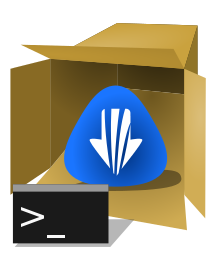
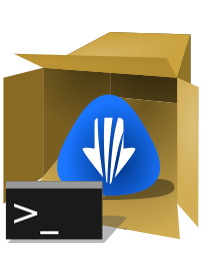
Updated header style and also revised some images.

diff --git a/data/css/gtk-style.css b/data/css/gtk-style.css
@@ -1,14 +1,24 @@
-
 #logo {
-    background-color: #f0f0f0;
-    color: #6988bb;
+    background-color: transparent;
+    background-image: url("data/images/header.png");                                 
+    background-repeat: no-repeat;
+    background-position: top;
+    background-size: 100% 100%;
+    color: #fcfcfc;
     font: 14px;
+    font-family: 'DejaVu Sans', Sans, sans-serif;
 }
 
 #title {
-    background-color: #f0f0f0;
-    color: #6988bb;
+    background-color: transparent;
+    background-image: url("data/images/header.png");                                 
+    background-repeat: no-repeat;
+    background-position: top;
+    background-size: 100% 100%;
+    color: #5082d4;
     font: 14px;
+    font-family: 'DejaVu Sans', Sans, sans-serif;
+    padding-top:7.5px;
 }
 
 /*
